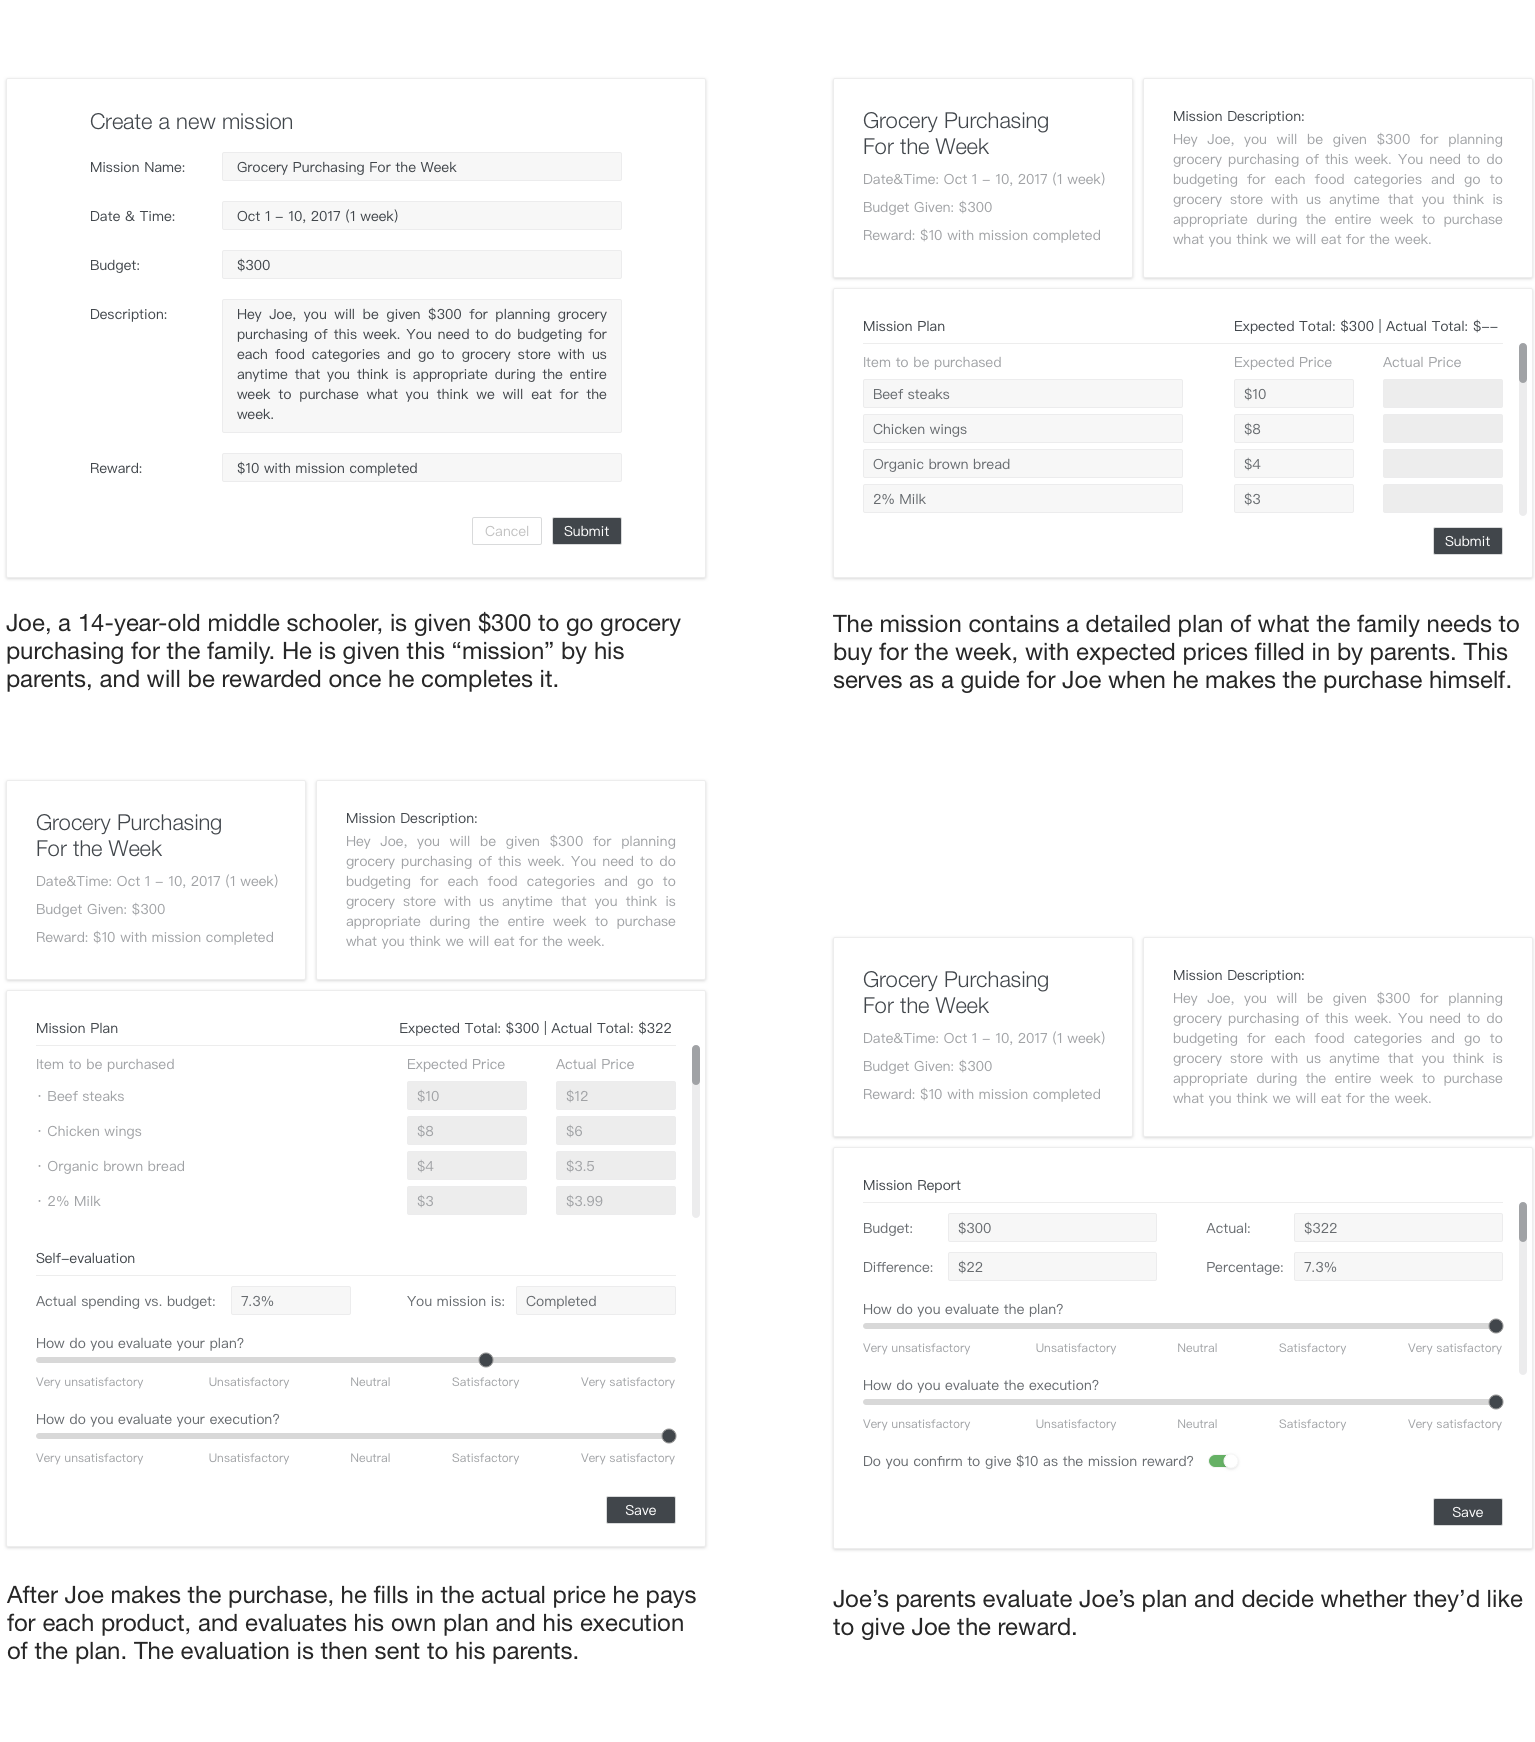
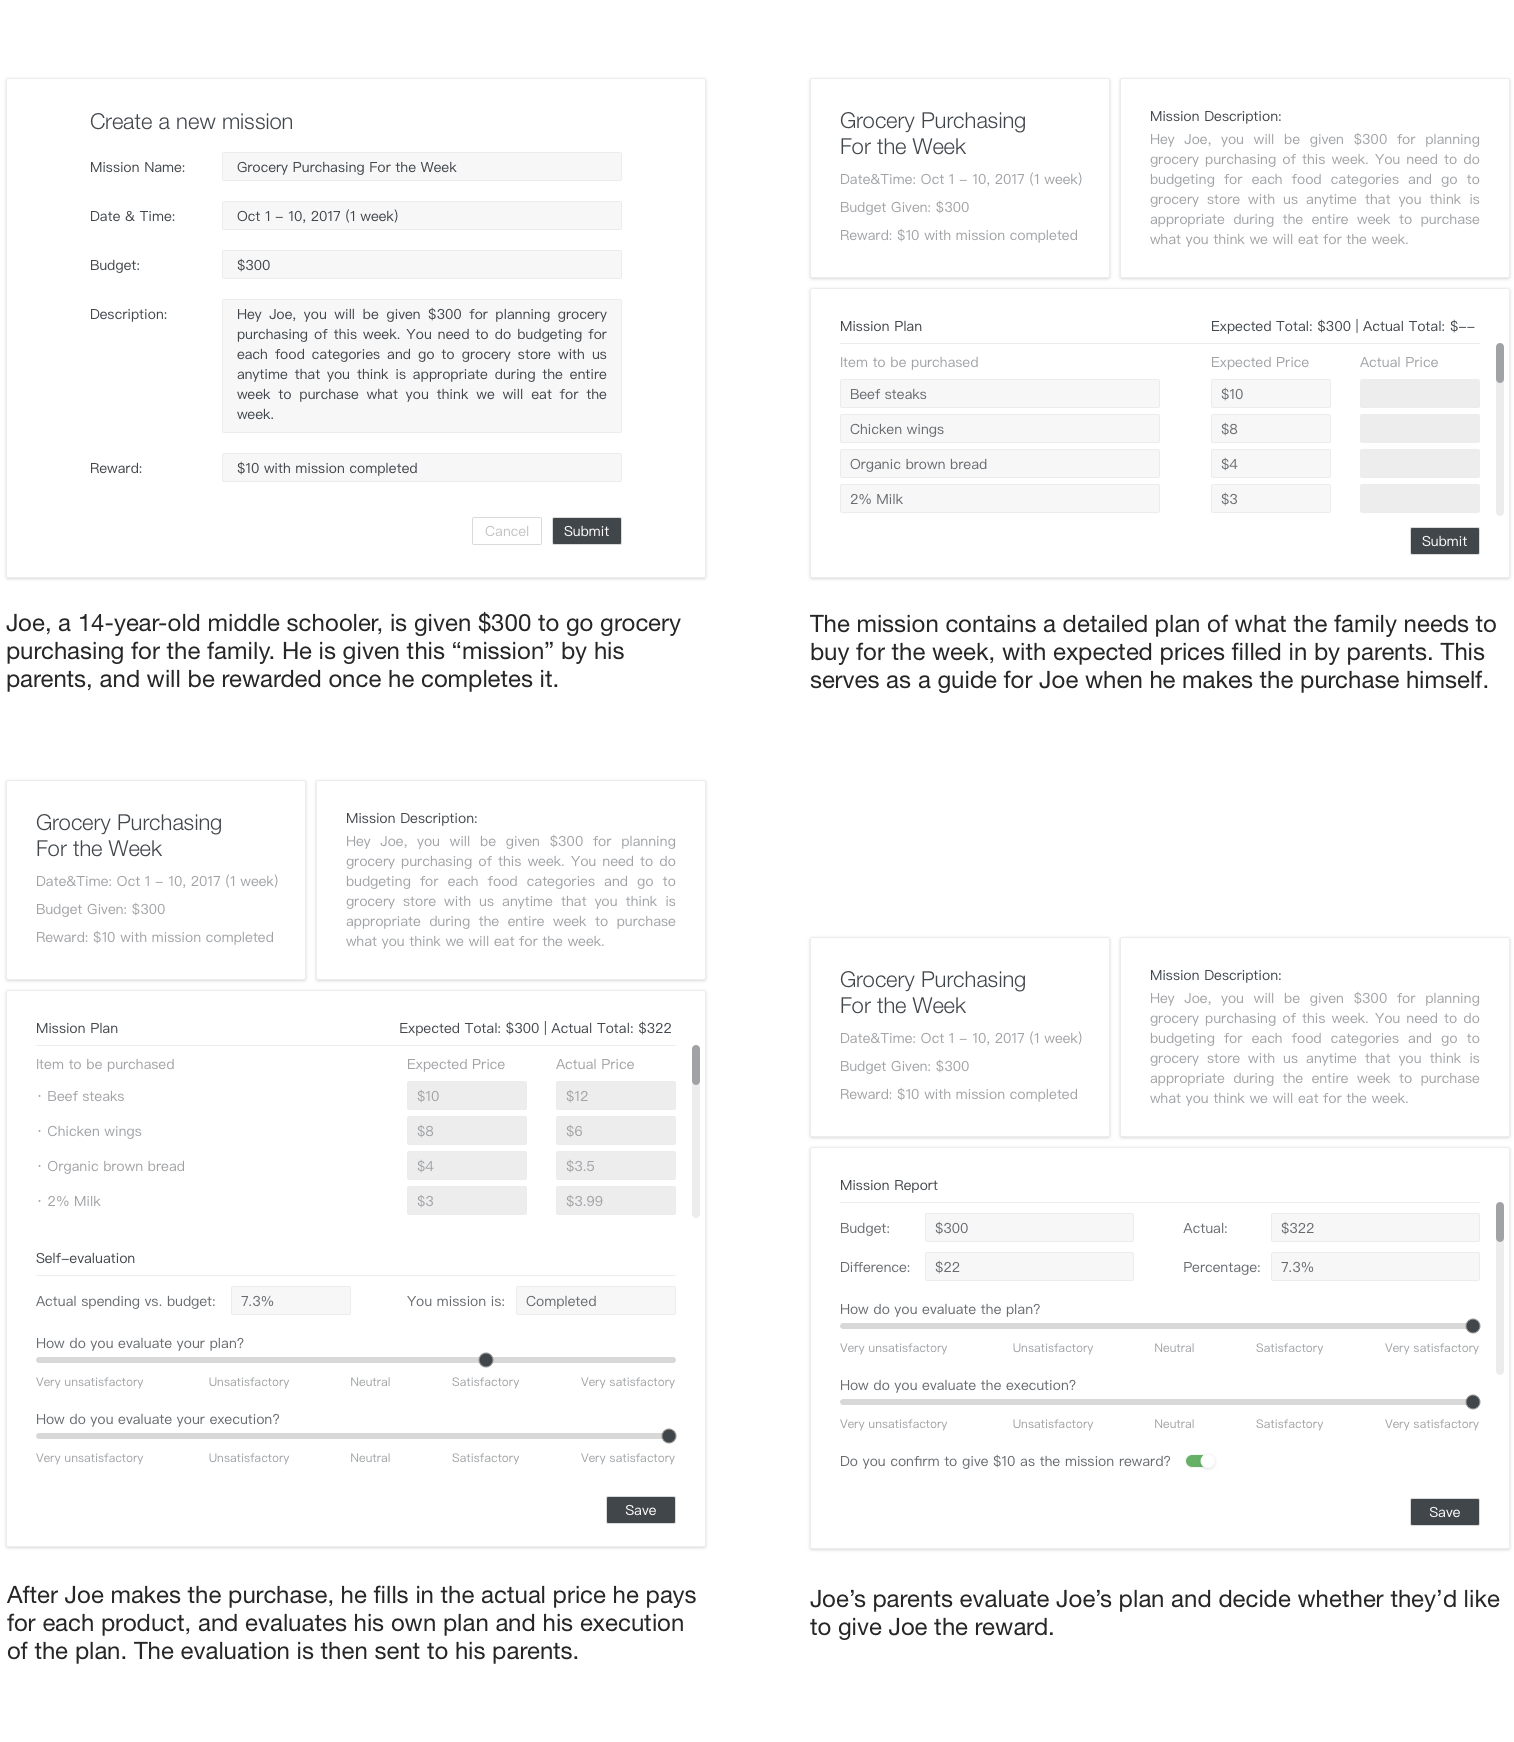
Added evaluation first part

diff --git a/html/Works/financial-literacy.html b/html/Works/financial-literacy.html
@@ -85,8 +85,8 @@
                   <li><a href="#wireframes">Wireframes</a></li>
                   <li><a href="#final-design">Final Design & User Flow</a></li>
                   <li><a href="#prototype-small">Prototype</a></li>
-                  <li><a href="#usability-testing">Usability Testing</a></li>
-                  <li><a href="#design-iterations">Design Iterations</a></li>
+                  <li><a href="#evaluation">Evaluation</a></li>
+                  <!-- <li><a href="#design-iterations">Design Iterations</a></li> -->
                 </ul>
               </li>
 
@@ -99,7 +99,7 @@
           <p class="article-subtitle">Helping emerging adults reflect on their past purchasing decisions and form good financial habits</p>
           <hr>
 
-          
+
           <img src="../../assets/walker-perspective3.png" alt="Financial Literacy" class="img-responsive col-centered full-img">
 
           <section id="overview" class="group">
@@ -391,11 +391,11 @@
 
               <div id="user-feedback" class="subgroup">
                 <h4>User Feedback & Design Implications</h4>
-                <p>Of the 15 users we interviewed, most people preferred Concept 1 and Concept 2, which target emerging adults. For Concept 3 and Concept 4, participants believed that parents might not want to follow the instructions in the tool, and might want to carry out our supported tasks outside of our tool.Though the aim of these concepts is to provide a much-needed platform for parents to start conversations on personal finance with their children, most users cannot see it happening. <strong>Therefore, we decided to narrow our choices down to Concept 1 and Concept 2, and target emerging adults only.</strong></p>
+                <p>Of the 15 users we interviewed, most people preferred Concept 1 and Concept 2, which target emerging adults. For Concept 3 and Concept 4, participants believed that parents might not want to follow the instructions in the tool, and might want to carry out our supported tasks outside of our tool. Though the aim of these concepts is to provide a much-needed platform for parents to start conversations on personal finance with their children, most users cannot see it happening. <strong>Therefore, we decided to narrow our choices down to Concept 1 and Concept 2, and target emerging adults only.</strong></p>
 
-                <p>Several participants also pointed out that visualizing one's future financial conditions based on current saving/spending behaviors might not make sense for emerging adults. People between 18 and 25 are generally in the process of choosing a field of study or exploring career opportunities; it's usually unclear to them how their financial conditions might change depending on their careers changes.<strong>As a result, Concept 2 might not seem appealing to emermging adults.</strong></p>
+                <p>Several participants also pointed out that <strong>visualizing one's future financial conditions based on current saving/spending behaviors might not make sense for emerging adults</strong>. People between 18 and 25 are generally in the process of choosing a field of study or exploring career opportunities; it's usually unclear to them how their financial conditions might change depending on their careers changes.<strong>As a result, Concept 2 might not seem appealing to emerging adults.</strong></p>
 
-                <p>However, participants did mention that having a short-term financial status analysis feature (with no long-term goal setting) is beneficial. Therefore, we decided to combine that feature from Concept 2 with Concept 1 in our final design. We also derived the following <strong>design implications</strong> from participants' feedback on Concept 1 and Concept 2. Here are some examples:</p>
+                <p>However, participants did mention that having a short-term financial status analysis feature (with no long-term goal setting) is beneficial. Therefore, <strong>we decided to proceed with Concept 1 as our core concept, and incorporate the short-term financial status analysis feature from Concept 2 into our final design</strong>. We also derived several <strong>design implications</strong> from participants' feedback on Concept 1 and Concept 2. Here are some examples:</p>
 
                 <img class="img-responsive full-img"src="../../assets/walker-feedback-design.png" alt="Feedback and Design Implications"> <br><br>
               </div>
@@ -436,14 +436,28 @@
                 <iframe width="438" height="930" src="http://invis.io/7FEAWBZ23" frameborder="0" allowfullscreen></iframe>
               </div>
 
-              <div id="usability-testing" class="subgroup">
-                <h4>Usability Testing</h4>
-                <p><em>This is ongoing work. Please check back in a week or two for updates.</em></p>
+              <div id="evaluation" class="subgroup">
+                <h4>Evaluation</h4>
+                <p>The aims of our evaluation sessions are 1) to <strong>identify usability problems</strong> with our current design and 2) to <strong>assess the learnability</strong> of our application.<br><br>
+
+                To evaluate the usability of the system, we developed the following 4 tasks that cover all the main features we have in our application.</p>
+
+                <img class="img-responsive full-img"src="../../assets/walker-tasks.png" alt="Tasks"><br><br>
+
+                <p>After providing a high-level description of our application's core functionalities and letting users freely explore it for 2 minutes, <strong>we let users accomplish the 4 tasks one at a time while thinking aloud</strong>. We then let our users fill out a questionnaire asking their demographic information, their purchasing habits, and their subjective ratings of the usability of the app (adapted from the System Usability Scale, or SUS).<br><br>
+
+                To measure the <strong>learnability</strong> of our app, we let our users accomplish the 4 tasks again after they fill out the questionnaire. Since the problem we are tackling through our design is complex, and our app inevitably introduces new concepts to our users, <strong>we don't expect our users to understand them immediately</strong>. <strong>However, we believe that our users should easily understand the core functionalities of our app after their first use</strong>. Therefore, we asked users to compare their experiences completing the tasks in the two rounds of testing.<br><br>
+
+                Finally, we asked our users some general questions about their favorite and least favorite parts of the design, whether they understand the new concepts we brought in, etc.<br><br>
+
+                For issues raised by multiple users, <strong>we derived the following design directions</strong>, grouped by tab.
+               </p>
+
+               <img class="img-responsive full-img"src="../../assets/walker-issues-1.png" alt="Issues identified 1"><br><br>
+
+               <img class="img-responsive full-img"src="../../assets/walker-issues-2.png" alt="Issues identified 2"><br><br>
 
               </div>
-
-
-
           </section>
         </div>
       </div>

diff --git a/css/style.css b/css/style.css
@@ -862,7 +862,7 @@ hr {
 
 
   .main-content {
-    padding: 0px 20px 20px 60px;
+    padding: 0px 20px 20px 40px;
   }
 
   .subgroup h5 {
